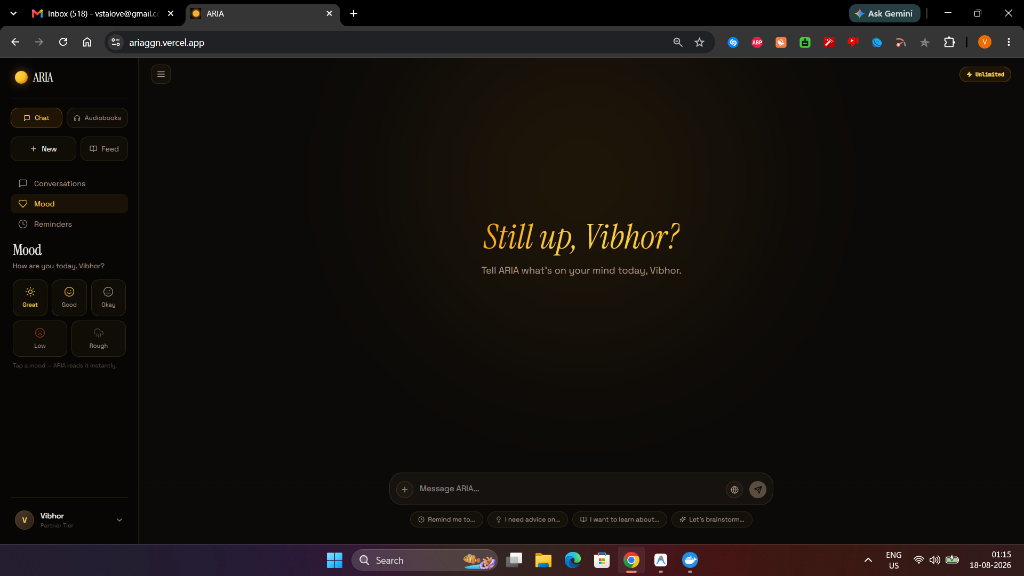
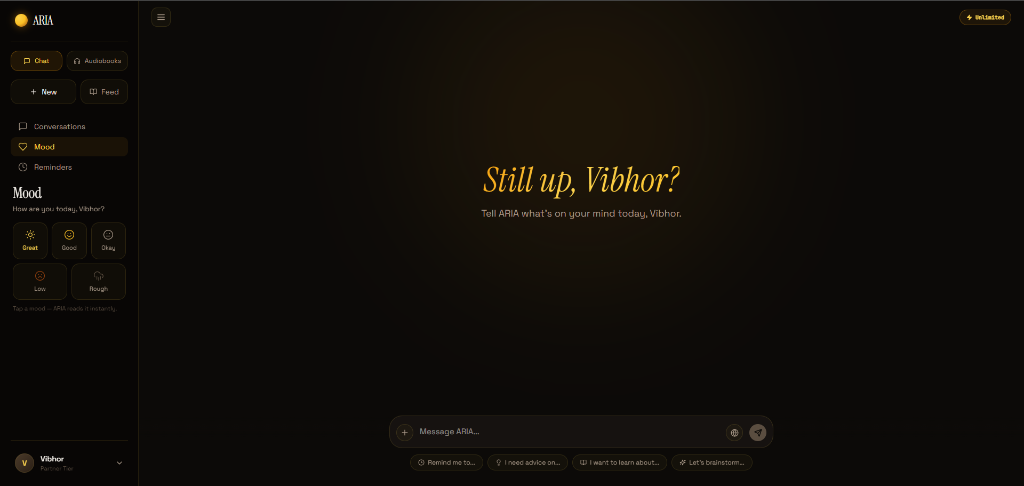
docs: curate product-focused launch README with cropped, clean UI screenshots

diff --git a/README.md b/README.md
@@ -2,257 +2,156 @@
 
 # ✨ ARIA
 
-### **Autonomous Reasoning Intelligent Assistant & Neural Audiobook Creator**
+### **Not a Chatbot. A Thinking Partner & Neural Audiobook Studio.**
 
-*An AI partner that reasons, reads, and thinks alongside you — paired with a local-first neural audiobook studio.*
+*An autonomous reasoning companion that thinks alongside you — paired with a studio-grade neural audiobook creator.*
 
-[![Live App](https://img.shields.io/badge/Live_App-ariaggn.vercel.app-F59E0B?style=for-the-badge&logo=vercel&logoColor=white)](https://ariaggn.vercel.app)
-[![Next.js](https://img.shields.io/badge/Next.js_16-000000?style=for-the-badge&logo=nextdotjs&logoColor=white)](https://nextjs.org/)
-[![React 19](https://img.shields.io/badge/React_19-20232A?style=for-the-badge&logo=react&logoColor=61DAFB)](https://react.dev/)
-[![Kokoro-82M TTS](https://img.shields.io/badge/Kokoro--82M-Neural_TTS-8B5CF6?style=for-the-badge&logo=pytorch&logoColor=white)](https://huggingface.co/hexgrad/Kokoro-82M)
-[![PostgreSQL](https://img.shields.io/badge/Neon_PostgreSQL-pgvector-00E599?style=for-the-badge&logo=postgresql&logoColor=white)](https://neon.tech)
-[![Docker](https://img.shields.io/badge/Docker-Local--First-2496ED?style=for-the-badge&logo=docker&logoColor=white)](https://www.docker.com/)
+<br />
+
+[![Live Experience](https://img.shields.io/badge/Live_App-ariaggn.vercel.app-F59E0B?style=for-the-badge&logo=vercel&logoColor=white)](https://ariaggn.vercel.app)
+[![Neural TTS](https://img.shields.io/badge/Kokoro--82M-Neural_Audio-8B5CF6?style=for-the-badge&logo=pytorch&logoColor=white)](https://huggingface.co/hexgrad/Kokoro-82M)
+[![Architecture](https://img.shields.io/badge/Next.js_16-React_19-000000?style=for-the-badge&logo=nextdotjs&logoColor=white)](https://nextjs.org/)
+[![Vector Memory](https://img.shields.io/badge/pgvector-Semantic_Memory-00E599?style=for-the-badge&logo=postgresql&logoColor=white)](https://neon.tech)
+[![Local First](https://img.shields.io/badge/IndexedDB-Offline_Ready-3B82F6?style=for-the-badge&logo=pwa&logoColor=white)](#offline--local-first-resilience)
 
 <br />
 
 <p align="center">
-  <img src="public/screenshots/aria_landing.png" alt="ARIA Landing Page - Not a chatbot. A partner." width="90%" style="border-radius: 12px; box-shadow: 0 12px 32px rgba(0,0,0,0.5);" />
+  <img src="public/screenshots/aria_landing.png" alt="ARIA — Not a chatbot. A partner." width="92%" style="border-radius: 12px; box-shadow: 0 16px 40px rgba(0,0,0,0.6);" />
 </p>
 
+[**Launch ARIA**](https://ariaggn.vercel.app) • [**Explore Features**](#-core-product-pillars) • [**Voice Engine**](#-neural-voice-catalog) • [**Architecture**](#-system-architecture)
+
 </div>
 
 ---
 
-## 📖 Table of Contents
+## 💡 The Vision
 
-- [Overview](#-overview)
-- [Key Features](#-key-features)
-  - [1. Autonomous Reasoning Chat Partner](#1-autonomous-reasoning-chat-partner)
-  - [2. Neural Audiobook Creator & Player](#2-neural-audiobook-creator--player)
-  - [3. Reflowable EPUB & PDF Reader](#3-reflowable-epub--pdf-reader)
-  - [4. Ambient BGM Soundscapes](#4-ambient-bgm-soundscapes)
-  - [5. Offline & Local-First Caching](#5-offline--local-first-caching)
-- [Visual Walkthrough](#-visual-walkthrough)
-- [System Architecture](#-system-architecture)
-- [Tech Stack](#-tech-stack)
-- [Getting Started](#-getting-started)
-  - [Prerequisites](#prerequisites)
-  - [1. Clone and Install](#1-clone-and-install)
-  - [2. Environment Configuration](#2-environment-configuration)
-  - [3. Database Setup](#3-database-setup)
-  - [4. Start Audiobook Backend (Docker)](#4-start-audiobook-backend-docker)
-  - [5. Launch Web App](#5-launch-web-app)
-- [Audiobook Engine & Voice Catalog](#-audiobook-engine--voice-catalog)
-- [Environment Variables](#-environment-variables)
-- [License](#-license)
+Most AI tools act like reactive search boxes. They wait, summarize, and forget.
+
+**ARIA** is designed from first principles as an **intellectual partner**:
+* **It reasons before responding**: Utilizing deep chain-of-thought models that examine nuances, debate assumptions, and push your thinking further.
+* **It remembers you**: Building an evolving, vector-indexed memory graph of your projects, preferences, and ideas across conversations.
+* **It reads with you**: Turning raw books, papers, and EPUB/PDF files into interactive knowledge and studio-quality narrated audiobooks with ambient soundscapes.
 
 ---
 
-## 🌟 Overview
+## 🏛 Core Product Pillars
 
-**ARIA** blends two powerful workspaces into one unified, elegant experience:
-
-1. **The Reasoning Companion**: An autonomous conversational intelligence powered by Sarvam 105B Reasoning, GPT-OSS, and Gemini Flash that remembers your personal context, forms opinions, challenges your thinking, and pulls facts from your custom knowledge library.
-2. **The Neural Audiobook Studio**: A local-first audiobook synthesis suite that converts any EPUB or PDF into studio-grade audiobooks using the offline **Kokoro-82M neural TTS engine** with 10 curated human-grade voices, paired with ambient genre music loops and a reflowable book reader.
-
----
-
-## 🚀 Key Features
-
-### 1. Autonomous Reasoning Chat Partner
-* **Dual-Field Reasoning Architecture**: Deep chain-of-thought processing via Sarvam 105B Reasoning with structured 4096-token budgets and GPT-OSS fallback.
-* **Persistent Memory & Vector Search**: Automatic fact extraction stored with 768-dimensional embeddings (`pgvector`) on Neon PostgreSQL.
-* **Knowledge Ingestion**: Upload PDFs, paste rich text, or ingest classic books directly from Archive.org into your semantic RAG library.
-* **Live Inline Research**: Web search fallback using Tavily and Serper for real-time citations and factual grounding.
-* **Mood & Daily Digest**: Built-in emotional state tracking and daily proactive check-ins.
-
-### 2. Neural Audiobook Creator & Player
-* **100% Free, Offline Neural Voice Engine**: Built-in **Kokoro-82M** PyTorch TTS engine (Grade A/B curated voices) with lazy-loaded pipeline and zero cloud audio API costs.
-* **Intelligent Document Ingestion**:
-  * **PDF Chapter Segmentation**: Heading pattern recognition (`Chapter X`, `Canto I`) with automatic running-header page merging.
-  * **EPUB Spine Parser**: Full chapter, metadata, and embedded cover art extraction.
-* **Per-Chapter Playlist Player**: Gapless audio playback, scrub bar, chapter duration tracking, and playback position persistence.
-* **Batch or Selective Generation**: Convert entire books or select individual chapters on demand.
-
-### 3. Reflowable EPUB & PDF Reader
-* **Powered by `foliate-js`**: Modern CSS multi-column pagination that eliminates JavaScript measurement race conditions and page clipping.
-* **Universal Document Support**: Dual parser with magic-byte detection (`%PDF-` vs `PK\x03\x04`) that renders both EPUBs and PDFs as clean, reflowable text paragraphs.
-* **Reading Customization**: Font size scaling (60%–200%), light/dark theme toggle, TOC chapter drawer, and keyboard arrow navigation.
-
-### 4. Ambient BGM Soundscapes
-* **6 Ambient Genre Loops**: Pre-mastered, seamless background music loops designed to play quietly under narration:
-  * 🌌 **Fantasy** — Warm, acoustic ambient memory
-  * 🚀 **Sci-Fi** — Deep atmospheric synth drones
-  * 🔍 **Mystery** — Suspenseful cinematic pads
-  * 🌿 **Romance** — Gentle acoustic warmth
-  * 🎻 **Classic** — Calm meditative classical strings
-  * 🗺 **Adventure** — Cinematic atmospheric groove
-* **Synchronized Playback**: Automatically pauses when narration pauses, loops infinitely, and remembers volume settings in `localStorage`.
-
-### 5. Offline & Local-First Caching
-* **IndexedDB Chapter Audio Cache (`audio-cache.ts`)**: Chapter MP3 audio is cached locally as Blobs on first playback. When the backend or Docker is stopped, audiobooks continue playing seamlessly offline.
-* **IndexedDB EPUB Cache (`epub-cache.ts`)**: Book text and structural files are saved in browser storage for instant, offline reading.
-
----
-
-## 📸 Visual Walkthrough
+### 1. Autonomous Reasoning & Personal Thinking Partner
 
 <div align="center">
-
-### 💬 Thinking Partner & Mood Tracking Workspace
-*Chat, reflect, explore ideas, and log daily thoughts with persistent memory.*
-
-<img src="public/screenshots/aria_chat.png" alt="ARIA Chat Interface" width="85%" style="border-radius: 10px; margin-bottom: 24px;" />
-
-<br />
-
-### 📚 Audiobook Library & Multi-Chapter Studio
-*Manage your collection, inspect chapter breakdowns, and generate neural audiobooks.*
-
-<img src="public/screenshots/aria_library.png" alt="ARIA Audiobook Library" width="85%" style="border-radius: 10px; margin-bottom: 12px;" />
-
+  <img src="public/screenshots/aria_chat.png" alt="ARIA Chat & Thinking Partner Workspace" width="90%" style="border-radius: 10px; margin: 16px 0;" />
 </div>
+
+* **Dual-Field Chain of Thought**: Powered by Sarvam 105B Reasoning with a dedicated 4,096-token reasoning budget and GPT-OSS fallback. You receive insightful, deeply deliberated conclusions without raw model clutter.
+* **Persistent Vector Memory (`pgvector`)**: Facts, context, and insights about you are automatically identified, embedded (768-dim), and stored in Neon PostgreSQL. Relevant memories are recalled seamlessly during relevant discussions.
+* **Library & Classic Book Ingestion**: Feed ARIA research papers, custom documents, or pull public-domain masterpieces straight from Archive.org into your personal semantic knowledge base.
+* **Factual Web Research**: When conversations require real-time knowledge, ARIA searches the live web via Tavily and Serper, embedding inline source citations.
+* **Proactive Daily Check-In**: A built-in mood and reflection layer that helps you log daily thoughts and track intellectual focus.
+
+---
+
+### 2. Neural Audiobook Creator
+
+Convert any **EPUB** or **PDF** book into a fully produced, chapter-segmented audiobook with zero cloud token charges or character limits.
+
+* **Kokoro-82M Neural Synthesis Engine**: Generates human-like, expressive speech locally with natural cadence, phrasing, and emotional depth.
+* **Intelligent Document Ingestion**:
+  * **Smart PDF Segmentation**: Detects chapter headers (`Chapter I`, `Canto II`) while automatically merging running page headers into cohesive chapters.
+  * **EPUB Spine Parser**: Preserves table of contents structure, metadata, and embedded artwork.
+* **Playlist Player**: Gapless chapter playback, seekable waveforms, duration previews, and persistent resume-where-you-left-off position.
+* **Selective Batch Generation**: Choose specific chapters or convert whole volumes in the background.
+
+---
+
+### 3. Modern Reflowable Reader & Ambient Soundscapes
+
+* **Reflowable CSS Pagination (`foliate-js`)**: Eliminates JavaScript layout race conditions and awkward page cuts. Books flow smoothly into beautiful multi-column pages on any screen size.
+* **Universal Format Handling**: Magic-byte inspection accurately routes both EPUBs and PDFs into readable, selectable HTML paragraphs.
+* **Typography Controls**: Instant font-size scaling (60% to 200%), light/dark reader modes, TOC navigation drawer, and keyboard arrow controls.
+* **6 Curated Ambient Music Soundscapes**:
+  * 🌌 **Fantasy** — Gentle acoustic warmth & nostalgic melody
+  * 🚀 **Sci-Fi** — Deep atmospheric synth drones
+  * 🔍 **Mystery** — Suspenseful cinematic pads
+  * 🌿 **Romance** — Warm acoustic tranquility
+  * 🎻 **Classic** — Meditative chamber strings
+  * 🗺 **Adventure** — Cinematic ambient groove
+* **Adaptive Audio Sync**: Background music automatically syncs with narration, looping quietly and preserving custom volume levels.
+
+---
+
+### 4. Offline & Local-First Resilience
+
+* **IndexedDB Chapter Audio Cache (`audio-cache.ts`)**: Chapter MP3 bytes are stored locally as Blobs upon first listen. You can continue listening to your entire book even completely offline.
+* **IndexedDB EPUB Cache (`epub-cache.ts`)**: Extracted books and chapter manifests persist on your device for instant, zero-latency loading.
+
+---
+
+## 🎙 Neural Voice Catalog
+
+ARIA features 10 hand-curated Kokoro neural voices:
+
+| Voice | Gender | Accent | Tone & Style | Best For |
+| :--- | :--- | :--- | :--- | :--- |
+| **Heart** ⭐ | Female | American | Warm, expressive & vibrant | Fiction, Memoirs, Narrative Literature |
+| **Bella** | Female | American | Conversational, smooth & warm | General Non-Fiction, Biographies |
+| **Nicole** | Female | American | Crisp, modern & articulate | Science, Tech, Business & Essays |
+| **Emma** | Female | British | Sophisticated, poetic & clear | Classics, Philosophy, Poetry |
+| **Aoede** | Female | American | Soft, melodic & intimate | Fantasy, Cozy Reads, Bedtime Listening |
+| **Kore** | Female | American | Grounded, calm & steady | Historical Fiction, Long-Form Studies |
+| **Sarah** | Female | American | Neutral, modern & balanced | Audiobooks, News, Deep Dives |
+| **Isabella** | Female | British | Traditional, refined literary tone | Period Literature, Historical Works |
+| **Michael** ⭐ | Male | American | Resonant, authoritative & deep | Thrillers, Sci-Fi, Action & Non-Fiction |
+| **Fenrir** | Male | American | Low, dramatic & cinematic | Dark Fantasy, Mystery, Suspense |
 
 ---
 
 ## 🏗 System Architecture
 
 ```text
-┌─────────────────────────────────────────────────────────────────────────┐
-│                           Client Browser                                 │
-│  Next.js 16 App · Zustand State · IndexedDB Audio/EPUB Caches            │
-│  foliate-js Reflowable Reader · Web Audio BGM Player Engine              │
-└───────────────────┬─────────────────────────────────┬───────────────────┘
-                    │                                 │
-                    │ /api/*                          │ /api/abm/* (Proxy)
-                    ▼                                 ▼
-┌───────────────────────────────────────┐  ┌──────────────────────────────┐
-│       Vercel Serverless (Node.js)     │  │  Audiobook Engine (Docker)   │
-│  - NextAuth.js Authentication         │  │  - Kokoro-82M Neural TTS     │
-│  - Streaming Chat & Reasoning API     │  │  - Edge-TTS Synthesizer      │
-│  - Memory Auto-Detection & Retrieval  │  │  - PDF / EPUB Chapter Split  │
-│  - Knowledge Ingestion & Chunking     │  │  - ffmpeg MP3 Transcoder     │
-│  - Web Search Cascade (Tavily/Serper) │  │  - Local Data Volume Storage │
-└───────────────────┬───────────────────┘  └──────────────┬───────────────┘
-                    │                                     │
-                    ▼                                     ▼
-┌───────────────────────────────────────┐  ┌──────────────────────────────┐
-│       Neon PostgreSQL + pgvector      │  │     ngrok Secure Tunnel      │
-│  (Users, Memories, Conversations,     │  │  (Connects Vercel frontend   │
-│   Knowledge Embeddings, Audiobooks)   │  │   to local Docker engine)    │
-└───────────────────────────────────────┘  └──────────────────────────────┘
+┌──────────────────────────────────────────────────────────────────────────────┐
+│                              Client Interface                                │
+│  Next.js 16 App · Zustand Store · foliate-js Reader · IndexedDB Blob Cache   │
+└──────────────────────┬───────────────────────────────┬───────────────────────┘
+                       │                               │
+                       │ REST / SSE                    │ /api/abm/* (Proxy)
+                       ▼                               ▼
+┌────────────────────────────────────────┐  ┌──────────────────────────────────┐
+│      Vercel Serverless Edge Layer      │  │     Audiobook Engine Backend     │
+│  - NextAuth.js User Sessions           │  │  - Kokoro-82M Neural TTS Model   │
+│  - Reasoning Engine & LLM Orchestrator │  │  - PDF / EPUB Chapter Splitter   │
+│  - Semantic Memory Retrieval           │  │  - ffmpeg MP3 Transcoder         │
+│  - Knowledge Ingestion & Chunking      │  │  - Local Data Volume Storage     │
+└──────────────────────┬─────────────────┘  └──────────────────┬───────────────┘
+                       │                                       │
+                       ▼                                       ▼
+┌────────────────────────────────────────┐  ┌──────────────────────────────────┐
+│       Neon PostgreSQL + pgvector       │  │       ngrok Secure Tunnel        │
+│  (Users, Memories, Conversations,      │  │  (Connects edge application      │
+│   Knowledge Embeddings, Audiobooks)    │  │   to local neural engine)        │
+└────────────────────────────────────────┘  └──────────────────────────────────┘
 ```
 
 ---
 
-## 💻 Tech Stack
+## 🛡 Privacy & Security
 
-| Domain | Technologies |
-| :--- | :--- |
-| **Frontend Framework** | Next.js 16 (App Router), React 19, TypeScript 5 |
-| **Styling & UI** | Tailwind CSS v4, Framer Motion, Radix UI Primitives, Lucide Icons |
-| **State & Local Storage** | Zustand, IndexedDB (Blobs for MP3s & Books), LocalStorage |
-| **Reader Engine** | foliate-js (CSS Multi-Column Pagination), PDF.js (Local Vendor Build) |
-| **Reasoning & LLMs** | Sarvam 105B Reasoning, GPT-OSS, Google Gemini Flash, Groq |
-| **Embeddings & Search** | Gemini `text-embedding-001` (768-dim), pgvector cosine similarity |
-| **TTS & Audio Backend** | Python 3.11, Kokoro-82M (PyTorch CPU), Edge-TTS, ffmpeg, Flask |
-| **Database & ORM** | PostgreSQL (Neon Serverless), Prisma ORM |
-| **Container & Tunnel** | Docker Compose, ngrok tunnel (Audiobook Bridge) |
+* **Local-First Processing**: Book files and synthesized audio are cached securely in your browser storage.
+* **Isolated Audio Processing**: Audio synthesis runs inside isolated containerized workers.
+* **Encrypted Authentication**: Secure NextAuth session tokens and bcrypt password hashing.
 
 ---
 
-## 🛠 Getting Started
+## 🌐 Experience ARIA
 
-### Prerequisites
-- **Node.js 18+** and **npm** (or Bun)
-- **Docker Desktop** (WSL2 backend on Windows or native Linux/macOS)
-- **PostgreSQL Database** with `pgvector` (e.g. [Neon](https://neon.tech))
+The production deployment of ARIA is live at:
 
----
-
-### 1. Clone and Install
-
-```bash
-git clone https://github.com/V1BHOR-28/super-chainsaw.git aria
-cd aria
-npm install
-```
-
-### 2. Environment Configuration
-
-Copy the example environment file and configure your API keys:
-
-```bash
-cp .env.example .env
-```
-
-### 3. Database Setup
-
-Synchronize the Prisma schema and pgvector indexes with your database:
-
-```bash
-npx prisma generate
-npx prisma db push
-```
-
-### 4. Start Audiobook Backend (Docker)
-
-Start the Kokoro neural TTS backend and ngrok tunnel:
-
-```bash
-docker compose up -d --build
-```
-
-*The backend healthcheck will confirm when Kokoro-82M and audio services are ready on port `5601`.*
-
-### 5. Launch Web App
-
-```bash
-npm run dev
-```
-
-Open [http://localhost:3000](http://localhost:3000) in your browser.
+👉 [**https://ariaggn.vercel.app**](https://ariaggn.vercel.app)
 
 ---
 
-## 🎙 Audiobook Engine & Voice Catalog
-
-ARIA includes 10 hand-curated Kokoro neural voices optimized for long-form literature:
-
-| Voice ID | Voice Name | Gender | Accent | Character Style |
-| :--- | :--- | :--- | :--- | :--- |
-| `kokoro:af_heart` | **Heart** ⭐ | Female | American | Warm, expressive & natural (Grade A) |
-| `kokoro:af_bella` | **Bella** | Female | American | Warm, conversational (Grade A-) |
-| `kokoro:af_nicole` | **Nicole** | Female | American | Crisp, clear narrator (Grade B-) |
-| `kokoro:bf_emma` | **Emma** | Female | British | Sophisticated, measured (Grade B-) |
-| `kokoro:af_aoede` | **Aoede** | Female | American | Soft, melodic storytelling (Grade C+) |
-| `kokoro:af_kore` | **Kore** | Female | American | Steady, grounded cadence (Grade C+) |
-| `kokoro:af_sarah` | **Sarah** | Female | American | Calm, modern documentary (Grade C+) |
-| `kokoro:bf_isabella` | **Isabella** | Female | British | Traditional literary reading (Grade C) |
-| `kokoro:am_michael` | **Michael** ⭐ | Male | American | Deep, resonant & commanding (Grade C+) |
-| `kokoro:am_fenrir` | **Fenrir** | Male | American | Low, dramatic baritone (Grade C+) |
-
-*All voices synthesize locally with zero character limits or credit charges.*
-
----
-
-## 🔐 Environment Variables
-
-| Variable | Description |
-| :--- | :--- |
-| `DATABASE_URL` | PostgreSQL connection string (Neon with pgvector) |
-| `NEXTAUTH_SECRET` | NextAuth JWT signing secret |
-| `GOOGLE_CLIENT_ID` / `_SECRET` | Google OAuth credentials for one-click login |
-| `SARVAM_API_KEY` | Sarvam AI API key for 105B deep reasoning |
-| `OPENROUTER_API_KEY` | OpenRouter key for primary chat & LLM fallback |
-| `GEMINI_API_KEY` | Google Gemini key for 768-dim embeddings & JSON parsing |
-| `GROQ_API_KEY` | Groq high-speed Llama-3 inference |
-| `TAVILY_API_KEY` / `SERPER_API_KEY`| Web search APIs for live source citations |
-| `RESEND_API_KEY` | Transactional email provider for authentication |
-| `ABM_SERVICE_URL` | URL of the audiobook backend (`http://localhost:5601` or ngrok URL) |
-
----
-
-## 📄 License
-
-Private Project. Built with ❤ for readers, thinkers, and audiobook lovers.
+<div align="center">
+  <sub>Built with ❤ for readers, thinkers, and audiobook lovers everywhere.</sub>
+</div>
